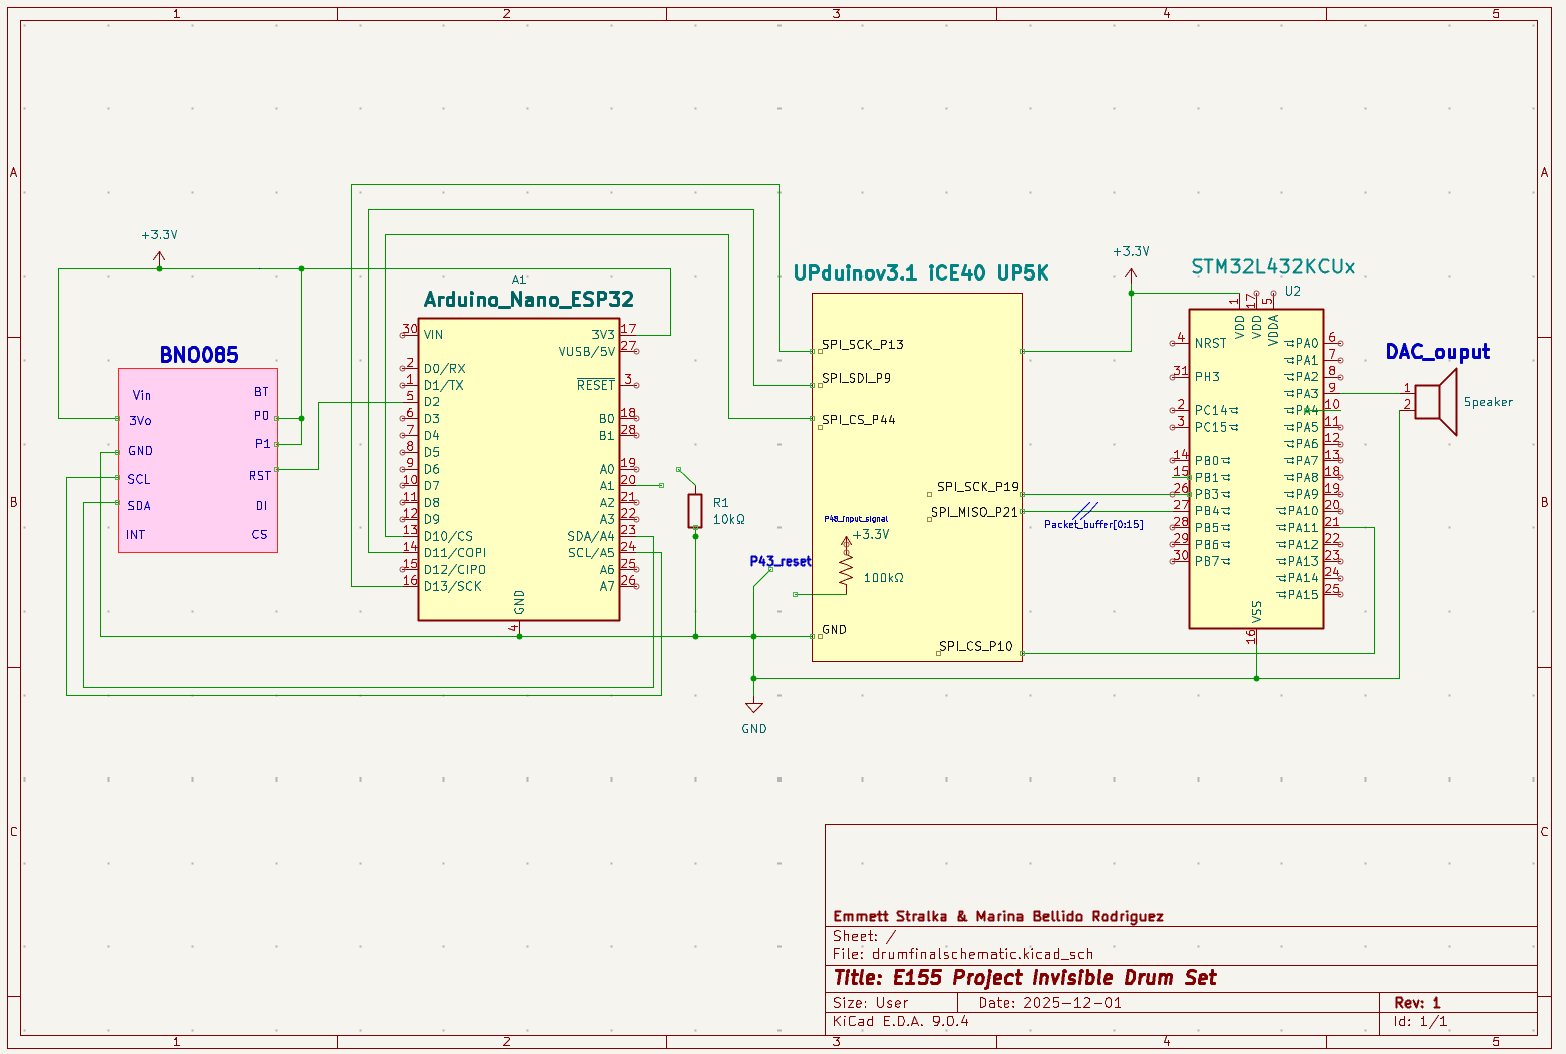
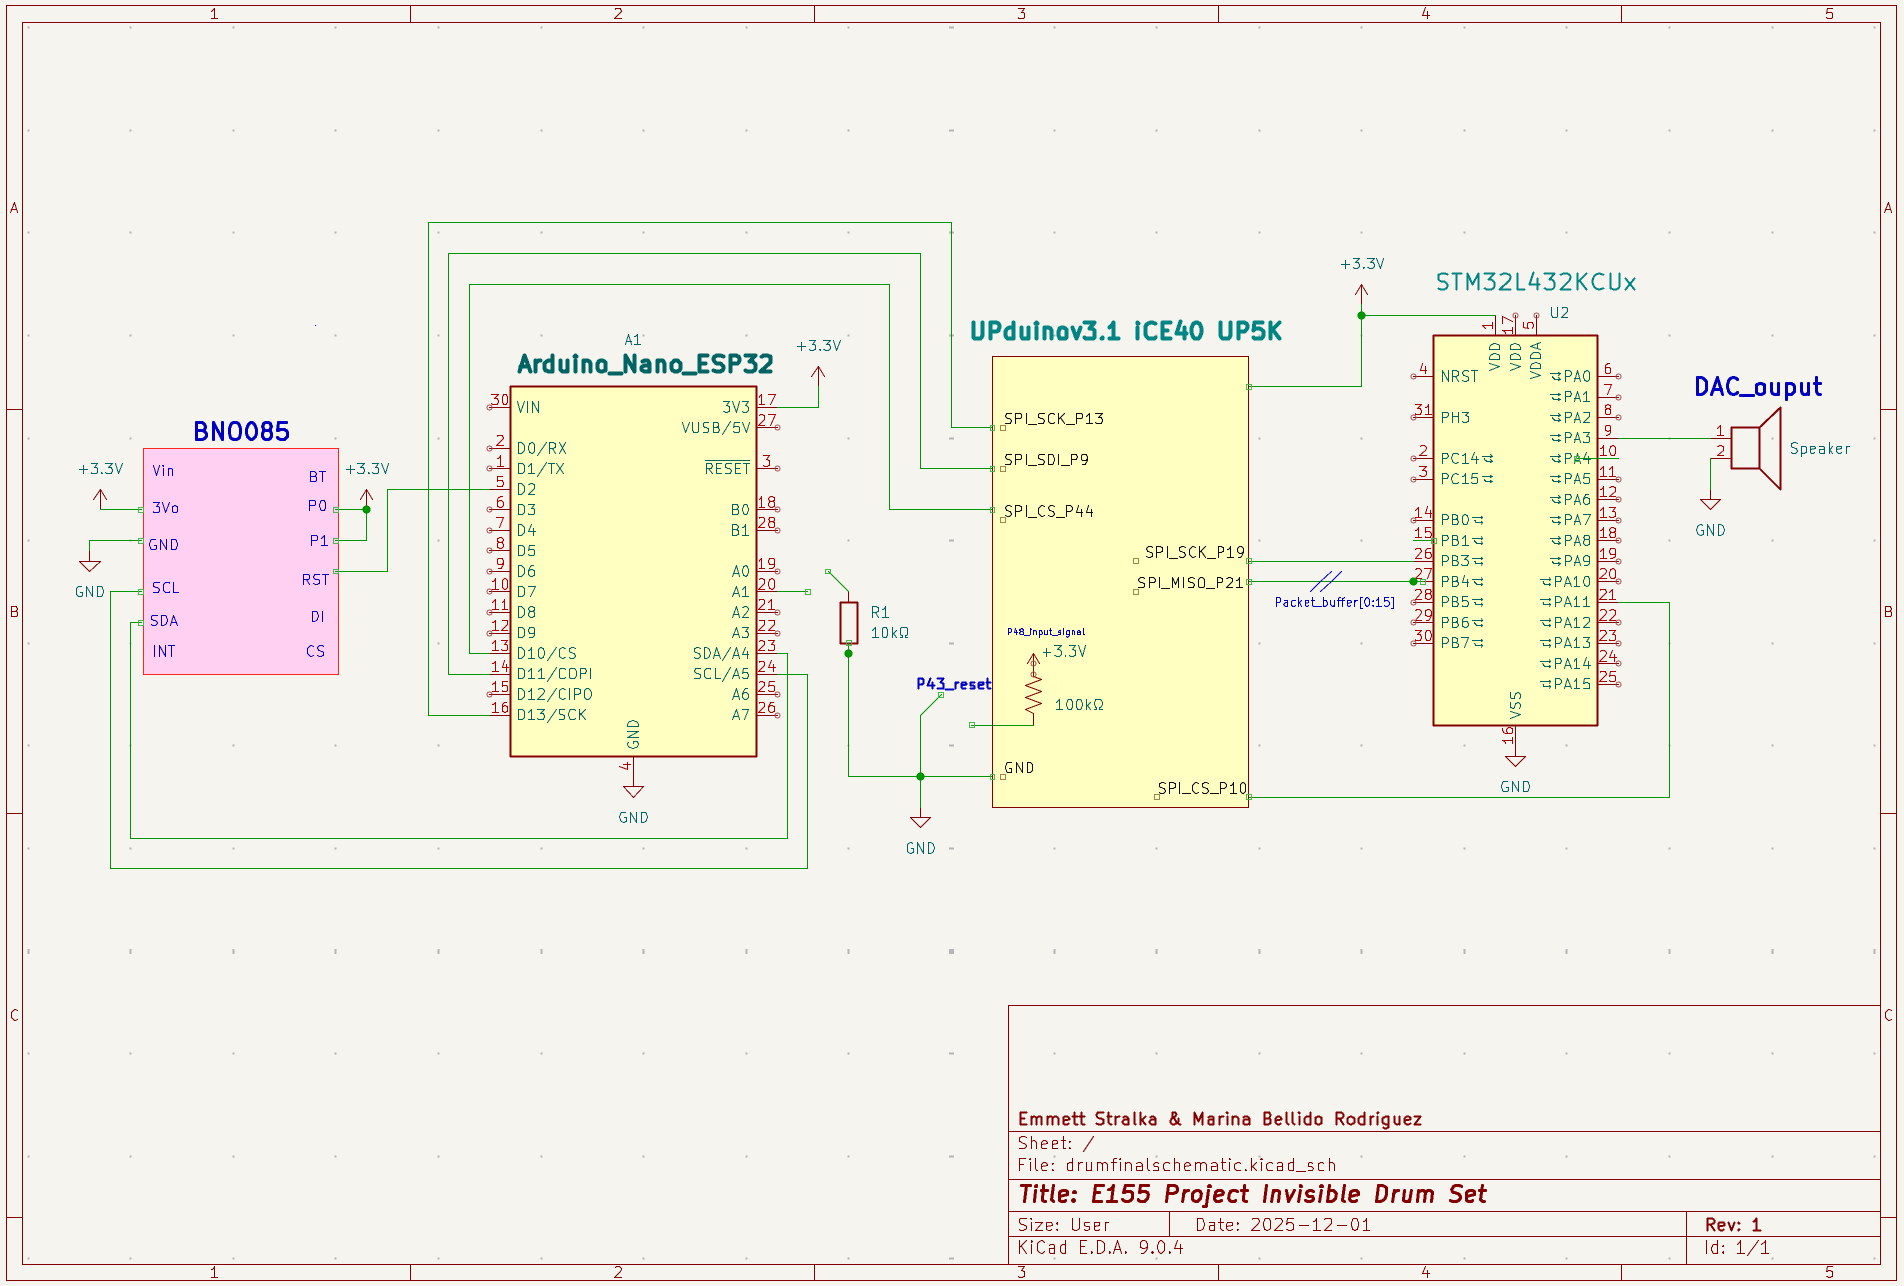
Built site for gh-pages

diff --git a/FPGA.html b/FPGA.html
@@ -207,6 +207,7 @@ window.Quarto = {
   <ul>
   <li><a href="#architectural-transition-for-improved-reliability" id="toc-architectural-transition-for-improved-reliability" class="nav-link active" data-scroll-target="#architectural-transition-for-improved-reliability">Architectural Transition for Improved Reliability</a></li>
   <li><a href="#technical-documentation" id="toc-technical-documentation" class="nav-link" data-scroll-target="#technical-documentation">Technical Documentation</a></li>
+  <li><a href="#appendix-a-fpga-based-bno085-shtp-driver-initial-implementation" id="toc-appendix-a-fpga-based-bno085-shtp-driver-initial-implementation" class="nav-link" data-scroll-target="#appendix-a-fpga-based-bno085-shtp-driver-initial-implementation">Appendix A: FPGA-Based BNO085 SHTP Driver (Initial Implementation)</a></li>
   </ul>
 </nav>
     </div>
@@ -256,9 +257,13 @@ window.Quarto = {
 <div class="quarto-figure quarto-figure-center">
 <figure class="figure">
 <p><img src="images/fpgapics/topmodule.png" class="img-fluid figure-img"></p>
-<figcaption>Figure 4: Top FPGA Module</figcaption>
+<figcaption>Figure 4: Top FPGA Module BlocK Diagram</figcaption>
 </figure>
 </div>
+</section>
+<section id="appendix-a-fpga-based-bno085-shtp-driver-initial-implementation" class="level2">
+<h2 class="anchored" data-anchor-id="appendix-a-fpga-based-bno085-shtp-driver-initial-implementation">Appendix A: FPGA-Based BNO085 SHTP Driver (Initial Implementation)</h2>
+<p>Learn more about the FPGA-Based BNO085 SHTP Driver Implementation <a href="./AppendixA.html">here</a></p>
 
 
 

diff --git a/AppendixA.html b/AppendixA.html
@@ -212,6 +212,7 @@ window.Quarto = {
   <li><a href="#a.3-normal-operation" id="toc-a.3-normal-operation" class="nav-link" data-scroll-target="#a.3-normal-operation">A.3 Normal Operation</a></li>
   </ul></li>
   <li><a href="#spi-signal-verification-via-logic-analyzer" id="toc-spi-signal-verification-via-logic-analyzer" class="nav-link" data-scroll-target="#spi-signal-verification-via-logic-analyzer">SPI Signal Verification via Logic Analyzer</a></li>
+  <li><a href="#technical-decomentation" id="toc-technical-decomentation" class="nav-link" data-scroll-target="#technical-decomentation">Technical Decomentation</a></li>
   </ul>
 </nav>
     </div>
@@ -331,6 +332,15 @@ window.Quarto = {
 <li>INT transitions low after configuration: Triggers exit from INIT_DONE_CHECK into WAIT_DATA, confirming the sensor is now fully configured and operational.</li>
 </ol>
 <p>This capture validates that the FPGA FSM implements the expected initialization handshake and SPI timing, successfully transitioning the BNO085 into normal data-output mode.</p>
+</section>
+<section id="technical-decomentation" class="level2">
+<h2 class="anchored" data-anchor-id="technical-decomentation">Technical Decomentation</h2>
+<p>All code for this initial fpga implementation can be found on this <a href="https://github.com/stremme1/E155_Final_SPI_Test/tree/main/fpga">GitHub repository.</a></p>
+<p>The following files within the folder are specific to the FPGA-Based BNO085 SHTP Driver:</p>
+<ul>
+<li>bno085_controller.sv</li>
+<li>spi_master.sv</li>
+</ul>
 
 
 

diff --git a/More.html b/More.html
@@ -262,8 +262,8 @@ window.Quarto = {
 <p><a href="https://hmc-e155.github.io/assets/doc/ds11451-stm32l432kc.pdf">STM32L432KC Datasheet</a></p>
 <p><a href="https://hmc-e155.github.io/assets/doc/FPGA-DS-02008-2-0-iCE40-UltraPlus-Family-Data-Sheet.pdf">iCE40UP5K Datasheet</a></p>
 </section>
-<section id="invisible-drum-set" class="level4">
-<h4 class="anchored" data-anchor-id="invisible-drum-set">Invisible Drum Set:</h4>
+<section id="invisible-drum-sets" class="level4">
+<h4 class="anchored" data-anchor-id="invisible-drum-sets">Invisible Drum Sets:</h4>
 <p><a href="https://aerodrums.com">Aerodrums</a></p>
 <p><a href="https://theodots.com">Hyperdrum</a></p>
 <p><a href="https://www.aeroband.net/products/pocketdrum2-plus">PocketDrum 2 Max</a></p>

diff --git a/index.html b/index.html
@@ -231,6 +231,7 @@ window.Quarto = {
 </header>
 
 
+<p>&nbsp;</p>
 <div class="text-center">
 <div class="quarto-figure quarto-figure-center">
 <figure class="figure">
@@ -239,6 +240,7 @@ window.Quarto = {
 </figure>
 </div>
 </div>
+<p>&nbsp;</p>
 <section id="abstract" class="level2">
 <h2 class="anchored" data-anchor-id="abstract">Abstract</h2>
 <p>This project aims to adapt the existing Invisible Drum Set—originally implemented with an Arduino Nano and BNO055 IMU sensor—onto the E155 hardware platform, consisting of an STM32 MCU and UPduino FPGA. It will enable playing virtual drums through air gestures detected by the IMU, with real-time audio synthesis and low latency.</p>

diff --git a/NewHardware.html b/NewHardware.html
@@ -236,7 +236,7 @@ window.Quarto = {
 <h2 class="anchored" data-anchor-id="bno085-imu-sensor-and-communication-protocol">BNO085 IMU: Sensor and Communication Protocol</h2>
 <div class="quarto-figure quarto-figure-center">
 <figure class="figure">
-<p><img src="images/bno085.png" class="center img-fluid figure-img" style="width:65.0%"></p>
+<p><img src="images/bno085.png" class="center img-fluid figure-img" style="width:60.0%"></p>
 <figcaption>Figure 6: IMU BNO085 Sensor</figcaption>
 </figure>
 </div>

diff --git a/Overview.html b/Overview.html
@@ -314,7 +314,7 @@ window.Quarto = {
 </section>
 <section id="github-code" class="level2">
 <h2 class="anchored" data-anchor-id="github-code">GITHUB CODE:</h2>
-<p>COMPELTE!!!!!</p>
+<p>All code for the project can be found in our <a href="https://github.com/stremme1/E155_Final_SPI_Test/tree/main">GitHub repository E155_Final_SPI_Test.</a></p>
 <p>&nbsp;</p>
 </section>
 <section id="bill-of-materials" class="level2">
